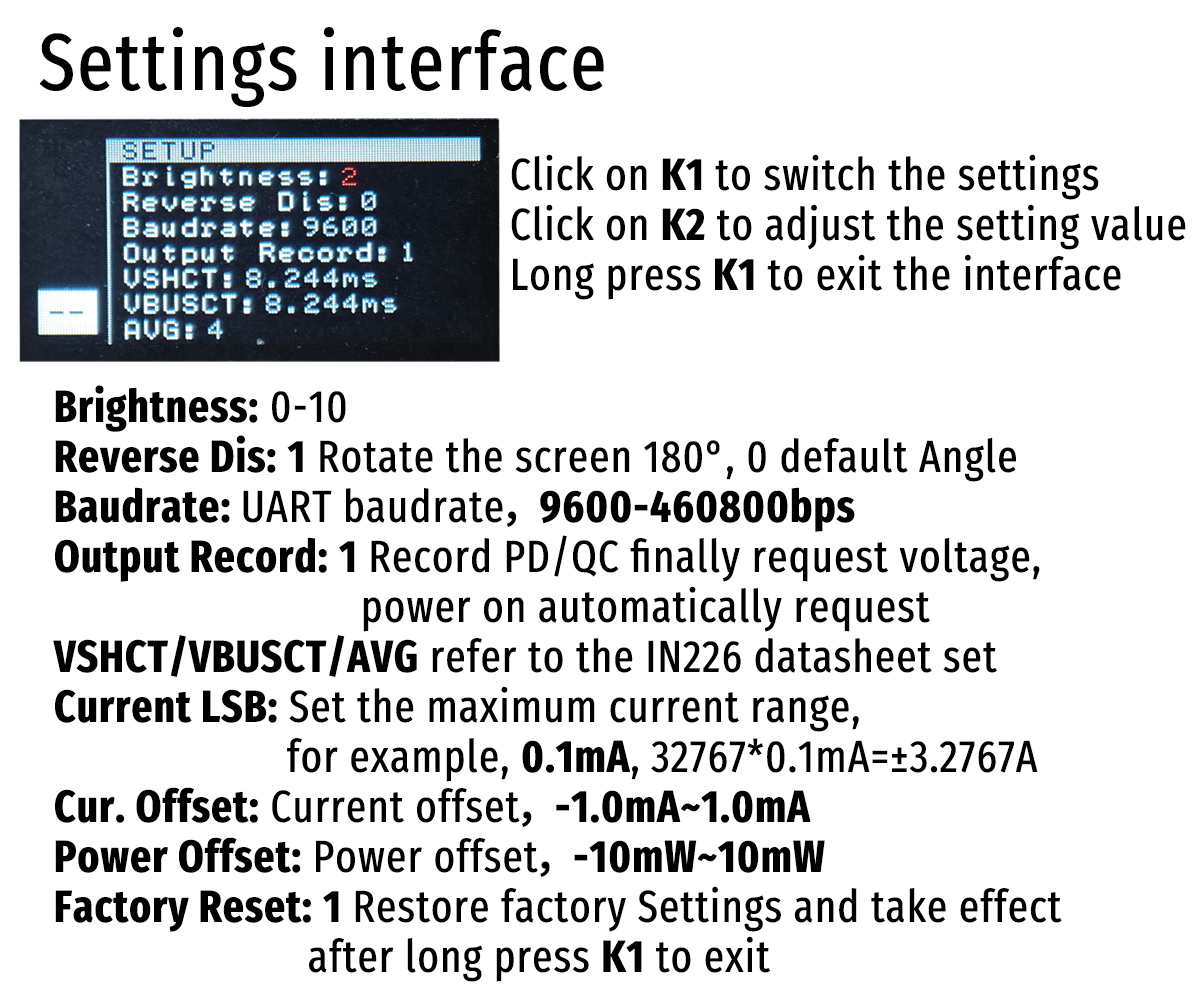
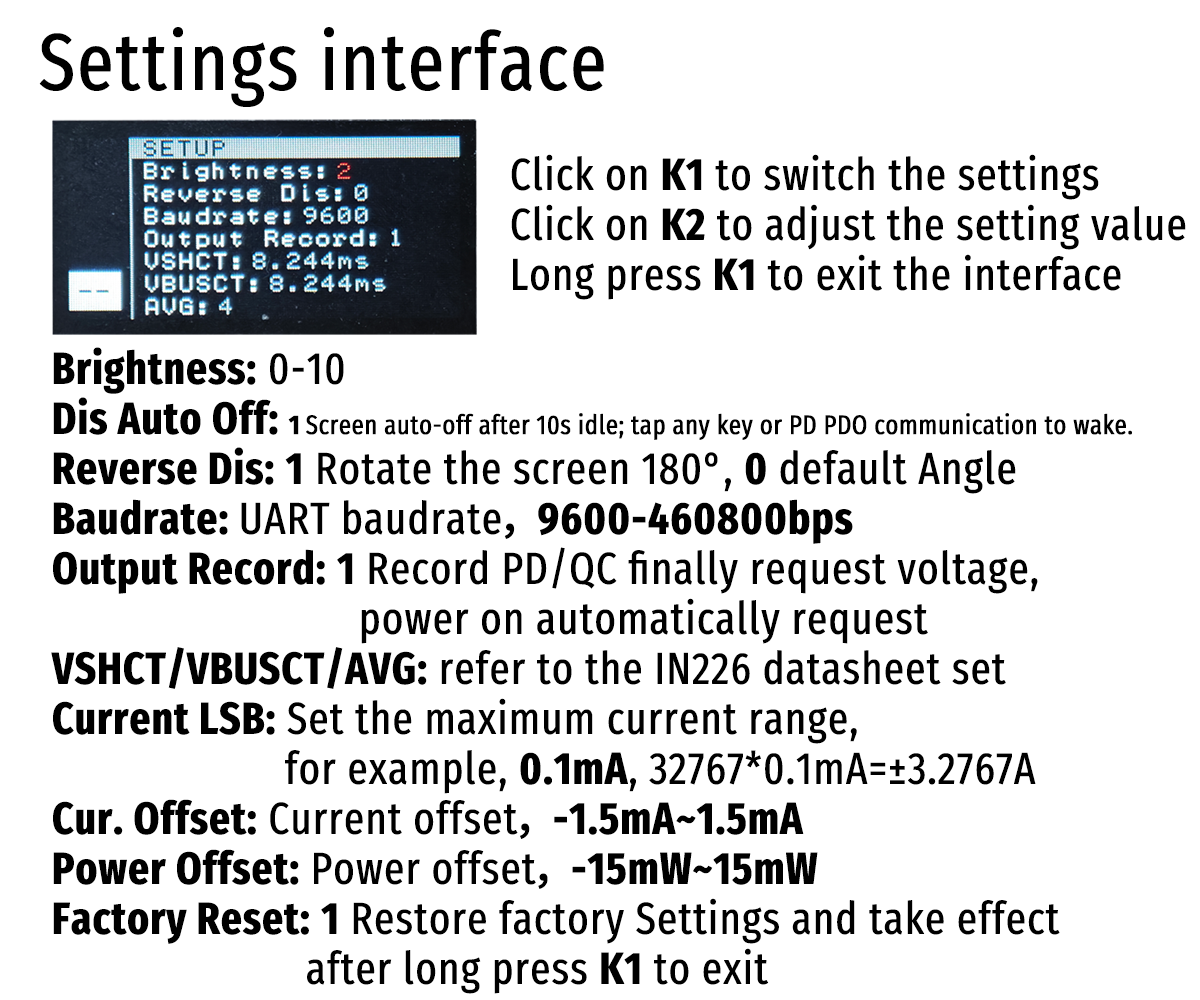
update README.md

Changed region(s): [[0.0, 0.093, 0.9558, 0.992]]

diff --git a/README.md b/README.md
@@ -18,8 +18,9 @@
 ```
 /*---------------------------------------
 - WeAct Studio Official Link
-- taobao: weactstudio.taobao.com
-- aliexpress: weactstudio.aliexpress.com
+- taobao: WeActStudio.taobao.com
+- aliexpress 1: WeActStudio.aliexpress.com
+- aliexpress 2: WeActStudioOne.aliexpress.com
 - github: github.com/WeActStudio
 - gitee: gitee.com/WeAct-TC
 - blog: www.weact-tc.cn

diff --git a/README_zh.md b/README_zh.md
@@ -18,8 +18,9 @@
 ```
 /*---------------------------------------
 - WeAct Studio Official Link
-- taobao: weactstudio.taobao.com
-- aliexpress: weactstudio.aliexpress.com
+- taobao: WeActStudio.taobao.com
+- aliexpress 1: WeActStudio.aliexpress.com
+- aliexpress 2: WeActStudioOne.aliexpress.com
 - github: github.com/WeActStudio
 - gitee: gitee.com/WeAct-TC
 - blog: www.weact-tc.cn
